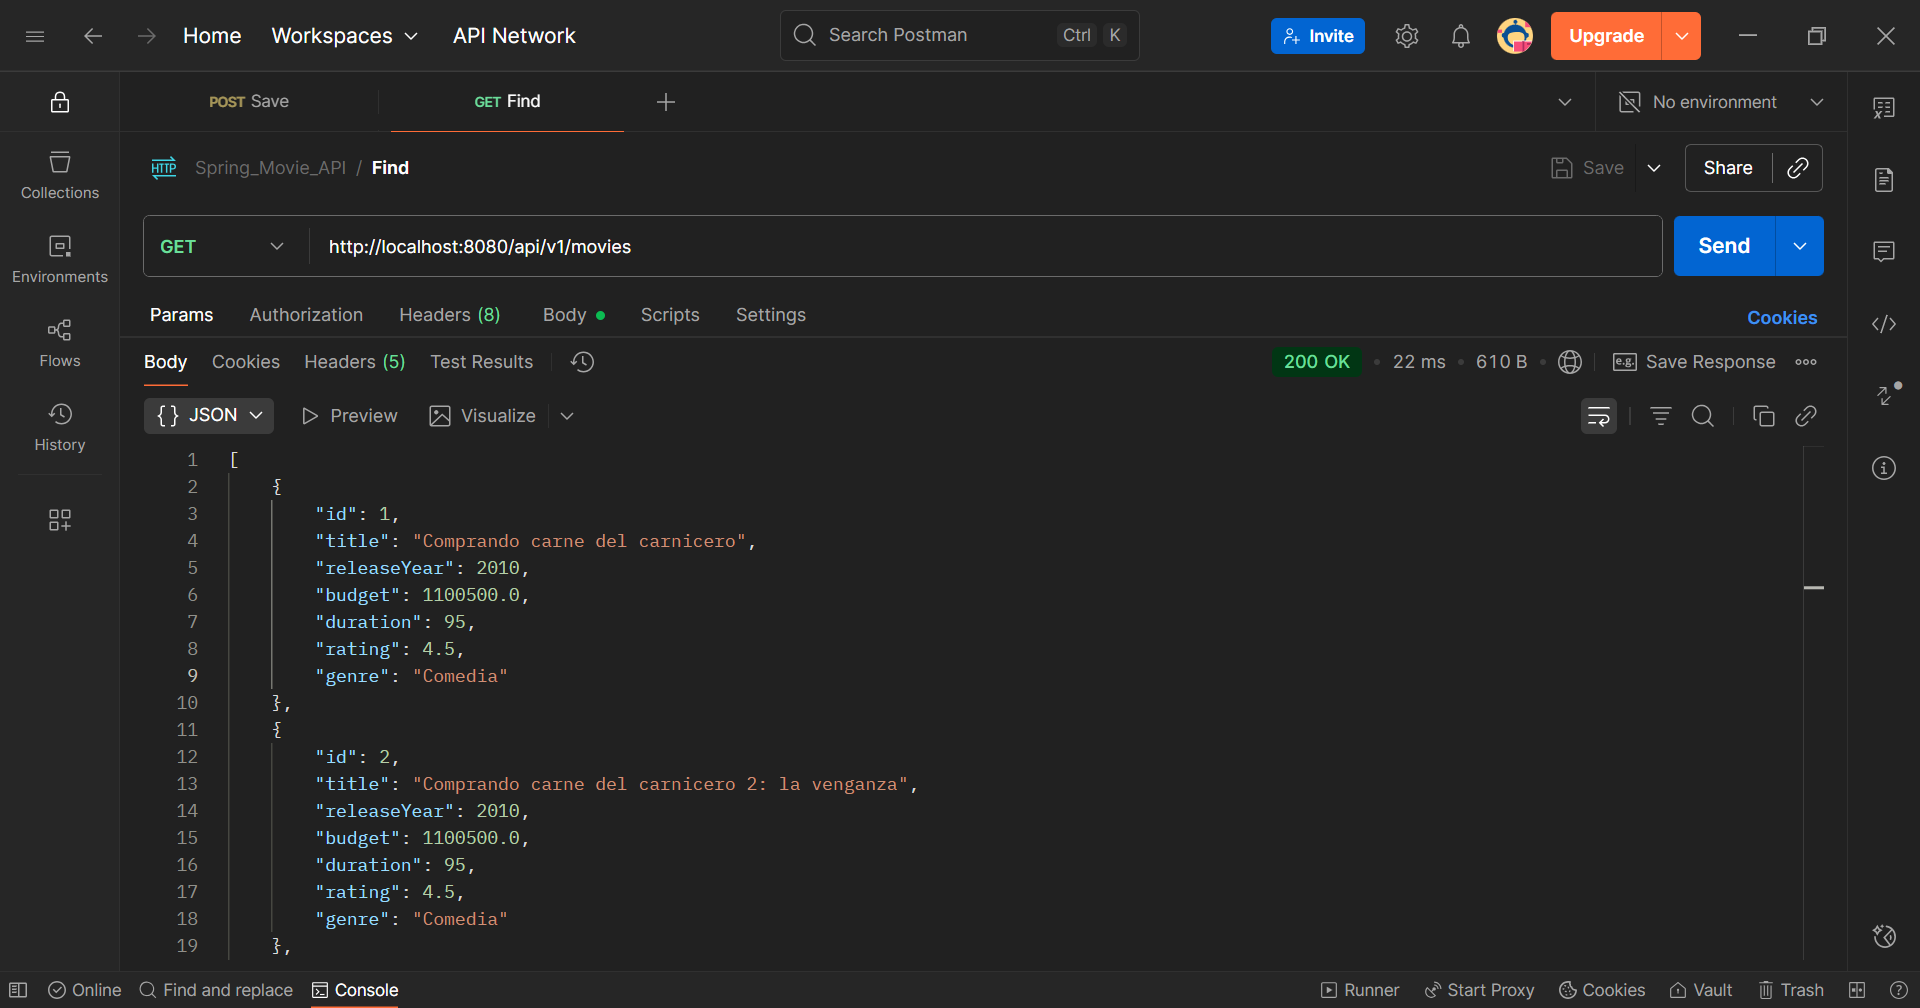
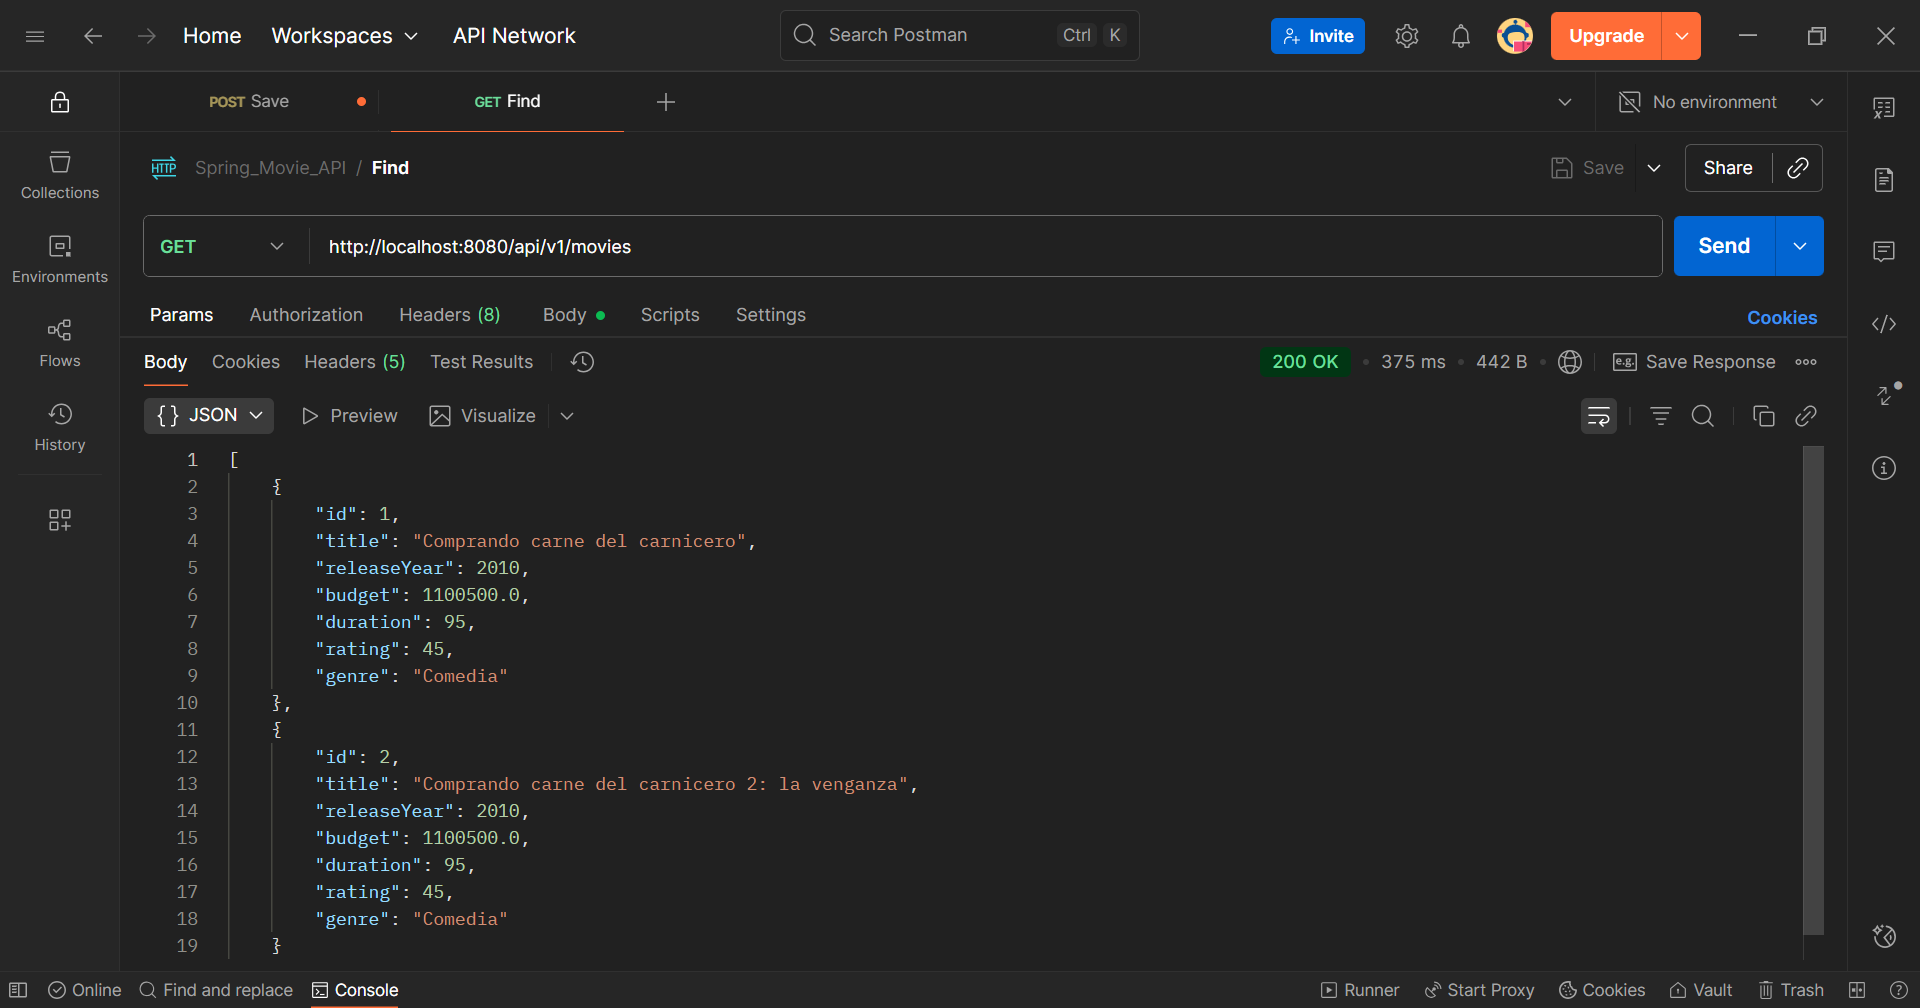
Corrections and Validations

Changed region(s): [[0.9375, 0.4306, 0.9688, 0.9226], [0.6562, 0.3383, 0.7812, 0.369]]

diff --git a/src/styles/global.css b/src/styles/global.css
@@ -26,8 +26,9 @@ pre {
   max-width: 100%;
 }
 .example-img img {
-  width: 500px;
-  height: 400px;
+  width: 600px;
+  height: 370px;
+  border-radius: 6px;
 }
 
 pre code {

diff --git a/src/pages/dictionary/6-validacion-excepcion.md b/src/pages/dictionary/6-validacion-excepcion.md
@@ -4,9 +4,9 @@
 
 # 6. Validaciones en los DTOs y excepciones de la API (Spring Boot)
 
-La mejor forma de usar las validaciones es con la dependencia de Spring Boot *Validation* (instalada cuando creamos el proyecto), vamos a aplicarlas directamente a los campos de las clases *DTO* (Data Transfer Object), siendo más concreto, en: `MovieInsertDto` y `MovieUpdateDto`.
+Una de las formas de usar las validaciones; es con la dependencia de Spring Boot *Validation* (instalada cuando creamos el proyecto), vamos a aplicarlas directamente a los campos de las clases *DTO* (Data Transfer Object), siendo más concreto, en: `MovieInsertDto` y `MovieUpdateDto`.
 
-Las *DTOs* pasarán hacer objetos que reciben los datos directamente desde el cliente (el cuerpo de la solicitud HTTP) en la capa de controlador (`MovieController`). Al validar los datos en este punto, aseguras que la información cumpla con ciertas reglas antes de que llegue a la lógica de negocio (`MovieService`) o a la base de datos (`MovieRepository` y `MovieEntity`).
+Los *DTOs* pasarán a ser objetos, los cuales reciben datos directamente desde el cliente (el cuerpo de la solicitud HTTP) en la capa de controlador (`MovieController`). Al validar los datos en este punto (dentro de los *DTO*); se asegura que la información cumpla con ciertas reglas antes de que llegue al punto de la lógica de negocio (`MovieService`), o a la base de datos (`MovieRepository` y `MovieEntity`).
 
 Dividimos responsabilidade:
   * *DTOs*: Se encargan de la transferencia y validación de los datos de entrada/salida.
@@ -21,6 +21,7 @@ Dividimos responsabilidade:
 import jakarta.validation.constraints.Max;
 import jakarta.validation.constraints.Min;
 import jakarta.validation.constraints.NotBlank;
+import jakarta.validation.constraints.NotNull;
 import jakarta.validation.constraints.PositiveOrZero;
 import jakarta.validation.constraints.Size;
 import lombok.Value;
@@ -32,19 +33,21 @@ public class MovieInsertDto {
     @Size(max = 255, message = "El título no debe de exceder los 255 carácteres")
     String title;
 
+    @NotNull(message = "Ingresa el año de estreno")
     @Min(value = 1900, message = "El año debe ser mayor o igual a 1900")
     @Max(value = 2025, message = "El año debe ser menor o igual a 2025")
-    int releaseYear;
+    Integer releaseYear;
 
     @PositiveOrZero(message = "El presupuesto mínimo debe ser un número positivo o cero")
-    double budget;
+    Double budget;
 
+    @NotNull(message = "Ingrese la duración de la pelicula (en minutos)")
     @Min(value = 30, message = "La duración debe ser como mínimo 30 minutos")
-    int duration;
+    Integer duration;
     
     @Min(value = 0, message = "La calificación mínima que se puede asignar es 0")
     @Max(value = 100, message = "La calificación máxima que se puede asignar es 100")
-    float rating;
+    Integer rating;
 
     @Size(max = 100, message = "El género no debe exceder los 100 carácteres")
     String genre;
@@ -52,9 +55,13 @@ public class MovieInsertDto {
 }
 ```
 
-* Cada una de las anotaciones que agregamos; pertenecen al import de `jakarta.validation`.
+*Nota: es recomendable que para la entrada de datos donde se utilizan los DTOs, todos los atributos sean de tipo no primitivo (wrapper); con ello máximizamos la robustez en la validación de entrada, para la persistencia (`MoviEntity`) es bueno usar primitivos para mejorar el rendimiento. Es posible e incluso sería más sencillo, y con menos explicación si todos los atributos de las clases que manejan, transportan o almacenan información de nuestros registros: `MovieEntity`, `MovieDto`, `MovieInsertDto` y `MovieUpdateDto` sus atributos estuvieran declarados con tipos de datos no primitivos (wrappers).*
 
-* `@NotBlank`: Solo acepta `CharSequence` (ej. *String*), nos evita recibir variables con valor **null**, cadenas (*String*) vacias y si el usuario agrega solo espacios en blanco. Algunas anotaciones tienen más o menos parámetros para recibir valores, el parámetro eje es: "*message*", el cual nos permite escribir un mensaje para el usuario, *frontend* o para nosotros mismos cuando realicemos pruebas.
+* Como podras observar, cambiamos el tipo de los atributos: `releaseYear`, `budget`, `duration` y `rating`, porque si recuerdas la clase `MovieEntity`, veras que especificamos que los atributos de `releaseYear` y `duration` no pueden ser nulos, por ello cambiamos a sus *no primitivos* (*wrappers*), para poder validar que no sean nulos. 
+
+* Con los tributos `budget` y `rating`, cuando se realiza el mapeo, aunque estos dos atributos reciban un valor **null** y se inicie el mapeo de no primitivo a un primitivo con valor nulo, lo cual no es posible y debería de marcar una excepción (los primitivos no almacenan **null**), pero el MAPPER al hacer la "transformación" de los objetos manejará el `NullPointerException`, cuando uno de los *wrappers* con valor nulo almacenado trate de pasarse a un tipo primitivo; `ModelMapper` almacenará en esos atributos primitivos del `MovieEntity` un valor por defecto, en este caso, parece que `ModelMapper` asigna un *0* para sus números enteros y *0.00* para los puntos decimal (coma decimal), pero es algo que `ModelMapper` ya tiene definido internamente. Cada una de las anotaciones que agregamos; pertenecen al import de `jakarta.validation`.
+
+* `@NotBlank`: Solo acepta `CharSequence` (ej. *String*), nos evita recibir cadenas (*String*) con valor **null** o que no ingreses un parametro (atributo), caenas vacias **""** y si el usuario agrega solo espacios en blanco **"    "**. Algunas anotaciones tienen más o menos parámetros para recibir valores, el parámetro eje es: "*message*", el cual nos permite escribir un mensaje para el usuario, *frontend* o para nosotros mismos cuando realicemos pruebas.
 
 * `@Size`: Acepta `CharSequence`, `Collection`, `Map` y `Array`, aquí la usamos con el parámetro `max` para evaluar el limite máximo de carácteres del *String*, en caso de sobre pasar el limite de carácteres mandamos un mensaje sobre el problema.
 
@@ -62,4 +69,121 @@ public class MovieInsertDto {
 
 * `@PositiveOrZero`: Acepta `BigDecimal`, `BigInteger`, `byte`, `short`, `int`, `long`, `float`, `double` y sus respectivos tipos de datos no primitivos (*wrappers*), en caso de recibir, en caso de que se reciba un número negativo; este no será aceptado y se mandará un mensaje, por ende, solo se permiten números positivos o el número cero.
 
-2. 
+3. Si lo que quieres es probar lo anterior aún hay algo que tenemos que hacer, dirigete al controlador y en el método `save`, dentro de los parentesis donte declaras los parametros del método, deberas es cribir previo a la anotación `@RequestBody` la anotación: `@Valid` y con ello se tomaran en cuenta las validaciones declaradas dentro de la clase `MovieInsertDto`.
+
+```java
+@PostMapping
+public ResponseEntity<MovieDto> save(@Valid @RequestBody MovieInsertDto insertedDto) {
+    MovieDto movieDto = service.save(insertedDto);
+
+    // Respuesta 201 (creación)
+    return ResponseEntity
+        .created(ServletUriComponentsBuilder.fromCurrentRequest() // Creamos un URI
+            .path("/{id}") // Retornamos en los "headers" una ruta
+            .buildAndExpand(movieDto.getId()) // Valor de la ruta "{id}"
+            .toUri()) // Transformamos
+        .body(movieDto); // Retornamos el movieDto
+}
+```
+
+4. La siguiente clase la usaremos para devolver un formato de error más limpio, útil, y sin imprimir todo el rastro de la excepción; generando una mejor legibilidad. Dentro del directorio "*presentation*" y a la altura de la carpeta "*controller*"; crea otra con el nombre "*advice*" y dentro crearemos la clase `GlobalExceptionHandler`
+
+```java
+import java.util.HashMap;
+import java.util.Map;
+
+import org.springframework.http.ResponseEntity;
+import org.springframework.web.bind.MethodArgumentNotValidException;
+import org.springframework.web.bind.annotation.ExceptionHandler;
+import org.springframework.web.bind.annotation.RestControllerAdvice;
+
+@RestControllerAdvice // Reunimos las excepciones
+public class GlobalExceptionHandler {
+
+    // Redirigimos la excepción al método
+    @ExceptionHandler(MethodArgumentNotValidException.class)
+    public ResponseEntity<Map<String, String>> handleValidationExceptions(
+        MethodArgumentNotValidException ex // La excepción se inyecta en el parámetro
+    ) {
+        Map<String, String> errors = new HashMap<>();
+        ex.getBindingResult().getFieldErrors()
+            .forEach(e -> errors.put(
+                e.getField(), 
+                e.getDefaultMessage()+ " -> "+ e.getRejectedValue())
+            );
+
+        // Forma completa y antigua pero útil
+        // return new ResponseEntity<>(errors, HttpStatus.BAD_REQUEST);
+
+        // Forma simplificada
+        return ResponseEntity.badRequest().body(errors);
+    }
+    
+}
+```
+
+* `@RestControllerAdvice` nos permite centralizar y estandarizar el manejo de excepciones y validaciones para todos los controladores; manteniendo un el orden y estructara de los errores, también serializa automáticamente el objeto de respuesta a JSON (o XML). Además de la palabra "Advice" que diferencia de un `@RestController`: el cual maneja el flujo normal de una solicitud a la API, aquí `@RestControllerAdvice`:  maneja el flujo de los errores de la solicitud en toda la aplicación.
+
+* `@ExceptionHandler`: sirve para declarar qué tipo/s de excepción puede manejar un método en específico. Si una exepción se lanza en cualquier controlador, Spring buscará un método (el nuestro) con `@ExceptionHandler` que conincida con el tipo de excepción lanzada, nosotros estamos declarando que tipo de excepción será recibida dentro de los paréntesis, los cuales van después de la anotación en este caso `MethodArgumentNotValidException.class`, esta clase pertenece a la excepción que lanza automáticamente la dependencia `Validation`; cuando falla una validación en un argumento de un método que está anotado con `@Valid`, es decir, nuestro método `save()` de la clase `MovieController`, que tiene un argumento de tipo `MovieInsertDto` y usa la notación `@Valid`. 
+<!-- En resumen, si esta excepción en específica es lanzada en cualquier parte de nuestra aplicación; se usará el método `handleValidationExceptions` que creamos para procesar dicha excepción. -->
+
+* Repasemos el flujo. Cuando Spring lanza la excepción `MethodArgumentNotValidException`, `@RestControllerAdvice` la intercepta, Spring llama al método `handleValidationExceptions` ya que es el encargado de recibir dicha excepción e inyecta la instancia (objeto del `MethodArgumentNotValidException`) de la excepción lanzada en el parámetro `ex`.
+
+* `ex.getBindingResult()` nos retorna los resultados de la validación, es el contenedor que tiene la lista de todos los errores, `.getFieldErrors()` devuelve una lista de objetos `FieldError`, el cual es un tipo de error específico que está asociado a un campo individual de un objeto DTO, ej. "title", "budget", "releaseYear", etc. La variable `e` pertenece a un `FieldError` de la lista, `e.getField()` retorna el nombre del campo (atributo) que falló en la validación; siendo almacenado como clave en nuestro mapa, ya que cada campo es único, `e.getDefaultMessage()` devuelve el mensaje de error que definimos en la anotación o anotaciones sobre el atributo en la clase DTO, ej. *"Ingresa el título de la película"*, lo concatenamos con un *" -> "* para concatenar lo que regrese `e.getRejectedValue()` como valor, dicho valor será lo que provoco el error, y claro el cual el usuario envió dentro del cuerpo de la petición, ej. **null** o *"    "* (espacios en blanco).
+
+5. Ahora configuraremos la clase `MovieUpdateDto`
+
+```java
+package com.javero_wiki.movie_api.presentation.dto;
+
+import jakarta.validation.constraints.Max;
+import jakarta.validation.constraints.Min;
+import jakarta.validation.constraints.NotBlank;
+import jakarta.validation.constraints.Pattern;
+import jakarta.validation.constraints.PositiveOrZero;
+import jakarta.validation.constraints.Size;
+import lombok.Value;
+
+@Value
+public class MovieUpdateDto {
+    
+    @Min(value = 1, message = "El id solo acepta números positivos")
+    Long id; // No necesitaremos usar el @NotNull
+
+    @Pattern(regexp = "^(?!\\s*$).+", message = "El título no puede ser vacío o tener espacios en blanco")
+    @Size(max = 255, message = "El título no debe de exceder los 255 carácteres")
+    String title;
+    
+    @Min(value = 1900, message = "El año debe ser mayor o igual a 1900")
+    @Max(value = 2025, message = "El año debe ser menor o igual a 2025")
+    Integer releaseYear;
+    
+    @PositiveOrZero(message = "El presupuesto mínimo debe ser un número positivo o cero")
+    Double budget;
+    
+    @Min(value = 30, message = "La duración debe ser como mínimo 30 minutos")
+    Integer duration;
+    
+    @Min(value = 0, message = "La calificación mínima que se puede asignar es 0")
+    @Max(value = 100, message = "La calificación máxima que se puede asignar es 100")
+    Integer rating;
+    
+    @Pattern(regexp = "^(?!\\s*$).+", message = "El genero no puede ser vacío o tener espacios en blanco")
+    @Size(max = 100, message = "El género no debe exceder los 100 carácteres")
+    String genre;
+
+}
+```
+* Aquí volvemos a usar *wrappers* en lugar de los tipos primitivos, mantenemos varias validaciones similares a las de la clase `MovieInsertDto`, pero agregamos el atributo *id*; a pesar de que esta clase es para actualizaciones y debemos de tener un rastro para saber cual registro modificar, en el no agregaremos un `@NotNull`, porque vamos a permitir que sea posible recibir su *id* por medio del controlador de forma individual, usando la misma ruta del **endpoint** o su path (`ruta/api/v1/bla/bla/id`).
+
+* En los atributos de tipo `String` cambie la anotación `@NotBlank` por la de `@Pattern`, la cual permite el uso de **regex** (expresiones regulares); dando posibilidad de usar caracteres para validar patrones en nuestro `Strign` y así permitir o no ciertos tipos de texto, el patron a evaluar se declara con el uso del atributo `regexp`, **"^(?!\\s*$).+"**.
+    * **^**: Evaluamos desde el principio del texto.
+    * **()**: Separamos para evaluar algo en especifico
+    * **?!**: *Negative Lookahead*, mirada negativa hacia adelante. No permitas que el patrón de adelante se cumpla y si se cumple el `String` será invalido; y se enviará el mensaje.
+    * **\s**: Significa espacios en blanco, al combinarlo con el asterisco `*` significa que aparezca 0 o más veces.
+    * **$**: Fin del texto, lo que se reciba de la cadena hasta el final del texto.
+    * **.**: Representa cualquier carácter, excepto salto de línea.
+    * **+**: Acepta al manos una vez
+*La expresión regular se podría leer como: Empieza a comprobar desde el inicio, verifica que no sea solo espacios en blanco o vacío **""**, debe tener al menos un carácter real.*
+
+En la siguiente sección se abordarán las integraciones de buscar por *id*, actualizar y eliminar en el controlador y servicios de las películas.

diff --git a/src/pages/dictionary/2-persistencia-api.md b/src/pages/dictionary/2-persistencia-api.md
@@ -59,14 +59,16 @@ public class MovieEntity {
     @Column(nullable = false)
     private int duration;
     
-    private float rating;
+    private int rating;
     
     private String genre;
     
 }
 ```
 
-*Así es, muchas anotaciones, la anotación `@Getter` genera todos los getters de la clase, existe la notación `@Setter` o podemos usar la anotación `@Builder` para usar este padrón de diseño, creamos dos constructores: uno sin argumentos `@NoArgsConstructor` y otro con todos los atributos de nuestra clase `@AllArgsConstructor`, `@Entity` le explica al programa que es una entidad y no una clase común o de soporte, `@Table(name = "movies")` especifica la tabla principal para la entidad anotada,además se le da nombre a la tabla, sino le especificamos el nombre; se asignará de forma automática el nombre de la propia clase, `@Id` da a conocer que este atributo y prontamente columna va a ser nuestro identificador unico, acompañado a lo anterior se asigna `@GeneratedValue(strategy = GenerationType.IDENTITY)`, para que este atributo sea una clave primaria (primary key) y sea autoincrementable, como podras percatarte, la anotación `@Column(properties...)` es opcional, la anotación `@Table` se encarga de identificar los atributos como columnas, así como el usar una o más propiedades dentro de la anotación.*
+* Así es, muchas anotaciones, la anotación `@Getter` genera todos los getters de la clase, existe la notación `@Setter` o podemos usar la anotación `@Builder` para usar este padrón de diseño, creamos dos constructores: uno sin argumentos `@NoArgsConstructor` y otro con todos los atributos de nuestra clase `@AllArgsConstructor`, `@Entity` le explica al programa que es una entidad y no una clase común o de soporte, `@Table(name = "movies")` especifica la tabla principal para la entidad anotada,además se le da nombre a la tabla, si no le especificamos el nombre; se asignará de forma automática el nombre de la propia clase.
+
+* `@Id` da a conocer que este atributo y prontamente columna va a ser nuestro identificador unico, acompañado a lo anterior se asigna `@GeneratedValue(strategy = GenerationType.IDENTITY)`, para que este atributo sea una clave primaria (primary key) y sea autoincrementable, como podras percatarte, la anotación `@Column(properties...)` es opcional, la anotación `@Table` se encarga de identificar los atributos como columnas, también es opcional usar una o más propiedades dentro de la anotación `@Column`, con `name` asignamos un nombre especifico en la table, ej. El atributo `releaseYear` mantendría su nombre si no especificamos otro, cambio el nombre para respetar la forma de las declaraciones en SQL, es decir, usar el guion bajo (*_*) para separar palabras, y con la propiedad `nullable = false` dejamos como regla en la *BD*: que la columna no puede almacenar un valor nulo, aunque al usar tipos primitivos se define por defecto no aceptar valores nulos.
 
 3. Ahora saldremos de este directorio y entraremos a la carpeta "*repository*" (creada con anterioridad) y en ella crearemos un repositorio con el nombre `IMovieRepository`.
 

diff --git a/src/pages/dictionary/3-servicio-api.md b/src/pages/dictionary/3-servicio-api.md
@@ -47,7 +47,7 @@ public class MovieDto {
     private int releaseYear;
     private double budget;
     private int duration;
-    private float rating;
+    private int rating;
     private String genre;
     
 }
@@ -67,7 +67,7 @@ public class MovieInsertDto {
     int releaseYear;
     double budget;
     int duration;
-    float rating;
+    int rating;
     String genre;
 
 }
@@ -87,7 +87,7 @@ public class MovieUpdateDto {
     int releaseYear;
     double budget;
     int duration;
-    float rating;
+    int rating;
     String genre;
 
 }

diff --git a/src/pages/dictionary/5-cont-peticiones.md b/src/pages/dictionary/5-cont-peticiones.md
@@ -84,7 +84,7 @@ public class MovieController {
     "releaseYear": 2010,
     "budget": 1100500.00,
     "duration": 95,
-    "rating": 4.5,
+    "rating": 45,
     "genre": "Comedia"
 }
 ```
